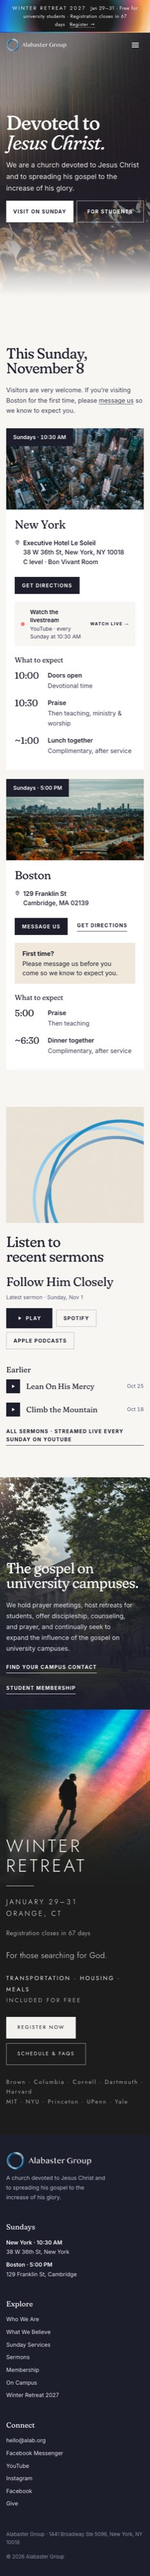
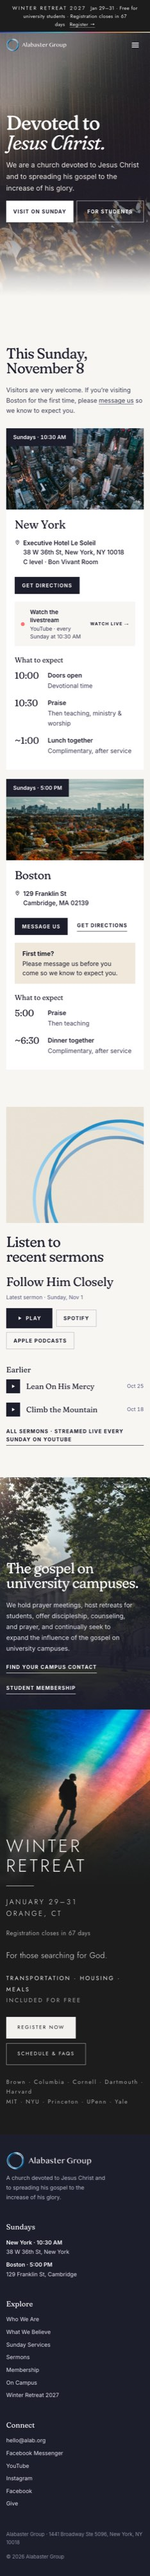
Announcement bar: plain charcoal with a thin prism stripe underneath

Changed region(s): [[0.7479, 0.0, 1.0, 0.0312], [0.0, 0.0, 0.2393, 0.0312]]

diff --git a/public/css/site.css b/public/css/site.css
@@ -889,18 +889,11 @@ h2 em, h3 em { font-style: normal; }
 [data-retreat="winter"] .retreat-page h2 em, [data-retreat="winter"] .retreat-page h3 em { font-weight: inherit; }
 [data-retreat="winter"] .announce { font-family: var(--retreat-type); font-weight: 400; letter-spacing: 0.04em; }
 
-/* The poster's prism, run through the announcement bar: the light band glows at both ends,
-   the copy sits on charcoal in the middle, and a hairline of the spectrum closes the bar. */
+/* The poster's prism as one thin stripe under the charcoal announcement bar */
 [data-retreat="winter"] {
   --prism: #1F3FD1, #1E8FE6, #36D0E0, #F06A9A, #F7A04A, #F4E3C2;
 }
-[data-retreat="winter"] .announce {
-  isolation: isolate; overflow: hidden;
-  background:
-    radial-gradient(ellipse 46% 160% at 50% 50%, var(--retreat-bg) 55%, rgba(27, 28, 28, 0) 100%),
-    linear-gradient(105deg, var(--prism), var(--prism));
-}
 [data-retreat="winter"] .announce::after {
-  content: ''; position: absolute; left: 0; right: 0; bottom: 0; height: 2px; z-index: -1;
-  background: linear-gradient(90deg, var(--prism)); opacity: 0.9;
+  content: ''; position: absolute; left: 0; right: 0; bottom: 0; height: 2px;
+  background: linear-gradient(90deg, var(--prism));
 }
